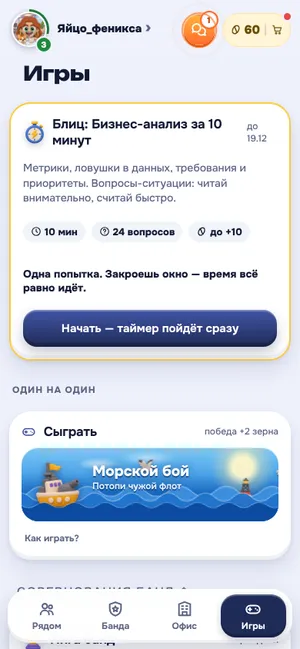
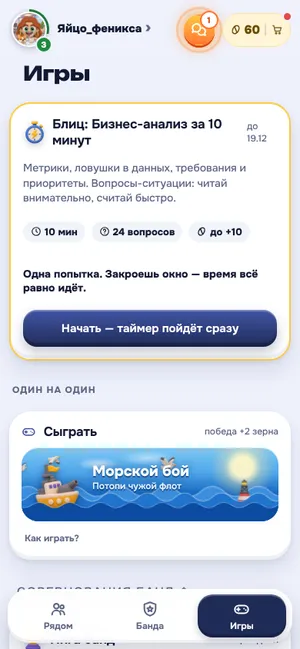
Вкладка «Офис» расформирована: столовая, доска, «Кто знает?» и события — на «Рядом»
Три вкладки: Рядом, Банда, Игры. Столовая показывается после отметки (в обед — сразу под зовами),
доска — когда есть объявления; остальное открывается из блока «Ещё на Этаже».
Старые ссылки и пуши (#feed, #kitchen, #rate, #office) ведут на «Рядом».

Claude-Session: https://claude.ai/code/session_01PvUo6SfsHEJBcoDnbJv4Dh

diff --git a/public/js/app.js b/public/js/app.js
@@ -1827,6 +1827,7 @@ async function loadChats() {
 // Вкладки: «Рядом» — кто где, «Чаты» — банды и личка, «Офис» — столовая и лента, «Игры» — всё игровое
 async function refresh({ all = false } = {}) {
   if (!S.me || !S.me.nick) return;
+  if (S.tab === 'office') S.tab = 'near';
   const t = S.tab;
   const jobs = [loadState(), loadInbox()];
   if (all || t === 'near') jobs.push(loadBoard(), loadPeople(), loadMatch(), loadTodos(), S.fx ? Promise.resolve() : loadFeatures().catch(() => {}));
@@ -1837,14 +1838,13 @@ async function refresh({ all = false } = {}) {
   if (inGang()) ensureGang();
   if (all || inGang() || t === 'games') jobs.push(loadGang(), loadGangExtra());
   if (all && !S.changes) jobs.push(loadChanges());
-  if (all || t === 'office') jobs.push(loadEvents(), loadBoard(), S.experts && S.experts.q ? null : loadExperts());
+  if (all || t === 'near') jobs.push(loadEvents(), S.experts && S.experts.q ? null : loadExperts());
   if (all || t === 'games') jobs.push(loadQuiz(), loadBlitz(), loadLeague('W').catch(() => {}), loadDuels(), loadTour());
   if (t === 'chats' && S.battle) jobs.push(loadBattle());
   if (t === 'chats' && S.dm) jobs.push(loadDm());
   await Promise.all(jobs);
   if (t === 'chats' && S.dm && S.crew) { const f = S.crew.list.find((x) => x.id === S.dm); if (f) f.unread = 0; recountCrewBadge(); }
   if (inGang()) markSeen('chat');
-  if (t === 'office') markSeen('feed');
 }
 function markSeen(kind) {
   const t = S.state ? S.state.now : Date.now();
@@ -1864,6 +1864,8 @@ function trackSeen(k) {
 }
 
 function render() {
+  // Вкладки «Офис» больше нет: её содержимое живёт на «Рядом». Старые ссылки, пуши и сводка ведут туда же
+  if (S.tab === 'office') S.tab = 'near';
   const keepScroll = window.scrollY;
   // Фоновое обновление не должно стирать то, что человек сейчас печатает
   const a = document.activeElement;
@@ -2131,10 +2133,10 @@ function renderApp() {
         <button class="btn small blue" data-act="open" data-v="install">Как?</button>
         <button class="x" style="background:none" data-act="install-hide" aria-label="Скрыть на сутки">×</button>
       </div>` : ''}
-      ${S.tab === 'near' ? renderNear() : S.tab === 'chats' ? renderChats() : S.tab === 'office' ? renderOfficeTab() : renderGames()}
+      ${S.tab === 'near' ? renderNear() : S.tab === 'chats' ? renderChats() : renderGames()}
     </main>
     <nav class="tabs"><div class="in">
-      ${tabBtn('near', 'Рядом', 0)}${tabBtn('chats', 'Банда', chatNews().reduce((a, x) => a + (x.dm ? 0 : x.n), 0))}${tabBtn('office', 'Офис', 0)}${tabBtn('games', 'Игры', (b.duels || 0) + (S.quiz || []).filter((z) => !z.answered).length + (S.battles || []).filter((x) => x.myTurn && x.status !== 'done').length)}
+      ${tabBtn('near', 'Рядом', 0)}${tabBtn('chats', 'Банда', chatNews().reduce((a, x) => a + (x.dm ? 0 : x.n), 0))}${tabBtn('games', 'Игры', (b.duels || 0) + (S.quiz || []).filter((z) => !z.answered).length + (S.battles || []).filter((x) => x.myTurn && x.status !== 'done').length)}
     </div></nav>
   </div>
   ${S.sheet ? renderSheet() : ''}`;
@@ -2309,6 +2311,10 @@ function renderNear() {
   // Новичку — маленькая ссылка под отметкой, а не самый яркий баннер экрана
   const aboutCard = S.me.newbie3 && !store.get('aboutSeen') ? `<button class="linkbtn about-link" data-act="open" data-v="about">Что такое Этаж? За 30 секунд →</button>` : '';
   const noGang = !S.me.gangs.length;
+  // Столовая видна тем, кто отметился в офисе: в обед (11:30–14:30) — сразу под зовами, в остальное время — под людьми
+  const hm = new Date().getHours() * 60 + new Date().getMinutes();
+  const lunchNow = hm >= 690 && hm <= 870;
+  const canteen = S.state.checkin && S.state.canteen ? renderCanteen() : '';
   const pr = S.me.look.prank && S.me.look.prank.until > Date.now() ? S.me.look.prank : null;
   const prankStrip = pr ? `<div class="prank-strip">${avatar(S.me.look, 34)}<span class="grow"><b>${esc(pr.from)} тебя ${pr.f ? 'разыграла' : 'разыграл'}</b><span class="small">${{ coffee: 'Кофе на одежде', sticker: 'Стикер на лбу', phones: 'Наушники с рок-музыкой' }[pr.v] || 'Подлянка'} — до ${new Date(pr.until).toTimeString().slice(0, 5)}</span></span><button class="btn small" data-act="prank-off">Снять</button></div>` : '';
   // Порядок: сначала свои люди. Без банды всё остальное пусто, поэтому первым идёт «Позови своих»;
@@ -2323,13 +2329,28 @@ function renderNear() {
     ${!noGang && S.people && !S.people.length ? findBar() : ''}
     ${renderQuickCalls()}
     ${renderLunchCard()}
+    ${lunchNow ? canteen : ''}
     ${renderWeekNote()}
     ${noGang ? '' : renderPeople()}
+    ${lunchNow ? '' : canteen}
+    ${boardLive() ? renderBoardCard() : ''}
     ${noGang ? '' : renderTodos()}
     ${renderBirthdays()}
     ${renderAdvent(true)}
     ${renderNearMore()}
+    ${renderFloorMore()}
     ${renderTopStrip()}`;
+}
+// То, что раньше жило на вкладке «Офис» и нужно не каждый день: открывается по нажатию
+const boardLive = () => !!(S.board && S.board.items.some((x) => x.kind !== 'lunch' && (!x.expiresAt || x.expiresAt > Date.now())));
+function renderFloorMore() {
+  const fb = (S.state && S.state.badges && S.state.badges.feed) || 0;
+  const row = (v, icon, title, sub, n) => `<button class="floor-row" data-act="open" data-v="${v}"><span class="st-ico">${ico(icon, 18)}</span><span class="grow"><b>${title}</b><span class="small">${sub}</span></span>${n ? `<span class="badge">${n > 9 ? '9+' : n}</span>` : ''}<span class="chev" aria-hidden="true">›</span></button>`;
+  return `<section class="card floor-more"><div class="eyebrow">Ещё на Этаже</div>
+    ${boardLive() ? '' : row('board', 'megaphone', 'Доска объявлений', 'Пока пусто: «отдам билеты», «на кухне яблоки»')}
+    ${row('experts', 'help', 'Кто знает?', 'Найти, кто за что отвечает')}
+    ${row('events', 'spark', 'События и сигналы офиса', 'Что случилось с тобой и что сломалось на этаже', fb)}
+  </section>`;
 }
 // Человек без банды: одно дело на экране — позвать своих или найти банду
 function renderNoGang() {
@@ -4710,6 +4731,9 @@ function renderSheet() {
     case 'gang-settings': return sheetWrap('Настройки банды', renderGangSettings());
     case 'crew': return sheetWrap('Подельники', renderCrew());
     case 'stats': return sheetWrap('Этаж сегодня', renderStats());
+    case 'board': return sheetWrap('Доска', renderBoardCard());
+    case 'experts': return sheetWrap('Кто знает?', renderExperts());
+    case 'events': return sheetWrap('События', renderFeed());
     case 'about': store.set('aboutSeen', true); return sheetWrap('Об Этаже', aboutHtml());
     case 'style': return sheetWrap('Мой стиль', renderStyle());
     case 'battery': return sheetWrap('Батарейка недели', renderBattery());
@@ -5050,10 +5074,9 @@ const COACH = [
   null,
   { cls: 'left', title: 'Это твой профиль', text: 'Нажми на аватар или ник: внешность, имя, план недели, ачивки. Зелёное кольцо — насколько профиль заполнен.' },
   { cls: 'right', title: 'Это твои зёрна', text: 'Их дают за отметки, ответы и квизы. Нажми — откроется Лавка со статусами и рамками.' },
-  { tab: 'near', i: 0, title: 'Рядом', text: 'Главный экран. Отметься, где работаешь сегодня, — и увидишь всех своих людей: кто в офисе, кто дома, кто в отпуске. Позвать на кофе — одна кнопка.' },
+  { tab: 'near', i: 0, title: 'Рядом', text: 'Главный экран. Отметься, где работаешь сегодня, — и увидишь всех своих людей: кто в офисе, кто дома, кто в отпуске. Позвать на кофе — одна кнопка. Столовая, доска и сигналы офиса — тут же, ниже.' },
   { tab: 'chats', i: 1, title: 'Банда', text: 'Твои люди: общий чат, зовы на кофе и обед, опросы и Лига. Личка и морской бой — под значком диалога наверху.' },
-  { tab: 'office', i: 2, title: 'Офис', text: 'Загрузка столовой и оценка обеда, Доска с кухней и объявлениями, сигналы с этажа и лента событий.' },
-  { tab: 'games', i: 3, title: 'Игры', text: 'Задания дня, квиз недели, морской бой и случайный кофе. За всё дают зёрна — их тратят в Лавке.' }
+  { tab: 'games', i: 2, title: 'Игры', text: 'Задания дня, квиз недели, морской бой и случайный кофе. За всё дают зёрна — их тратят в Лавке.' }
 ];
 function renderCoach() {
   if (!S.coach || S.sheet) return '';
@@ -5061,7 +5084,7 @@ function renderCoach() {
   const total = COACH.length - S.coachStart, n = S.coach - S.coachStart + 1;
   const last = S.coach === COACH.length - 1;
   const pos = tip.tab ? 'bottom' : tip.cls;
-  const style = tip.tab ? ` style="--ax:${12.5 + tip.i * 25}%"` : '';
+  const style = tip.tab ? ` style="--ax:${16.67 + tip.i * 33.33}%"` : '';
   return `<div class="coach-bg" data-act="coach-next"></div>
     <div class="coach-tip ${pos}"${style} role="dialog" aria-label="${esc(tip.title)}"><b>${esc(tip.title)}</b><p>${esc(tip.text)}</p>
       <div class="row" style="justify-content:space-between"><span class="small">${n} из ${total}</span>
@@ -5860,7 +5883,7 @@ function renderProfile() {
     <label class="field">Чем занимаюсь<input id="p-role" maxlength="80" value="${esc(p.role || '')}" placeholder="Аналитика тарифов B2B, отчётность для ДФК"></label>
     <label class="field">Спроси меня про… <span class="small" style="font-weight:600">— до пяти тем через запятую</span><input id="p-ask" maxlength="140" value="${esc((p.askMe || []).join(', '))}" placeholder="Jira, тарифы B2B, пропуска и парковка"></label>
     <button class="btn ghost small" data-act="work-save" style="justify-self:start">Сохранить</button>
-    <span class="small" style="font-weight:600">По этим темам коллеги найдут тебя в «Кто знает?» на вкладке «Офис», а вопросы с доски по твоей теме придут в сводку «Этажа».</span>
+    <span class="small" style="font-weight:600">По этим темам коллеги найдут тебя в «Кто знает?» на «Рядом», а вопросы с доски по твоей теме придут в сводку «Этажа».</span>
     <div class="field">Статус<div class="chips">${Object.entries(meG(S.cat.moods, S.cat.moodsF || S.cat.moods)).map(([k, l]) => `<button class="chip ${p.mood === k ? 'on' : ''}" data-act="prof" data-k="mood" data-v="${k}">${esc(l)}</button>`).join('')}</div></div>
     <label class="field">Мой офис — на главной кнопке отметки<select id="home-office">
       <option value="">Не выбран</option>${S.cat.offices.slice().sort((x, y) => x.name.localeCompare(y.name, 'ru')).map((o) => `<option value="${esc(o.id)}" ${p.home === o.id ? 'selected' : ''}>${esc(o.name)}</option>`).join('')}</select></label>
@@ -6740,6 +6763,9 @@ const actions = {
     if (S.sheet === 'shop') { store.set('shopSeen', [...new Set([...store.get('shopSeen', []), ...((S.me && S.me.affordable) || [])])]); await run(async () => { S.shop = await get('/api/shop'); if (S.activeGang && !S.gang) await loadGang(); }); }
     if (S.sheet === 'profile' || S.sheet === 'lunch') await run(loadFeatures);
     if (S.sheet === 'feedback') await run(loadFeedback);
+    if (S.sheet === 'events') { await run(loadEvents); markSeen('feed'); render(); }
+    if (S.sheet === 'experts') await run(loadExperts);
+    if (S.sheet === 'board') await run(loadBoard);
     if (S.sheet === 'style') await run(async () => { S.style = await get('/api/me/style'); });
     if (S.sheet === 'battery') { S.bt = { step: 0, answers: [] }; await run(async () => { S.battery = await get('/api/battery'); }); }
     if (S.sheet === 'crew-new' && !S.crew) await run(loadCrew);
@@ -7679,15 +7705,14 @@ document.addEventListener('visibilitychange', async () => {
 // Ссылки из пушей: #gang/ID, #crew/ID, #battle/ID, #feed, #feedback
 function applyHash(hash) {
   if (hash.startsWith('#gang/')) { S.tab = 'chats'; S.chatGang = true; S.dmList = false; S.dm = null; S.activeGang = Number(hash.slice(6)) || S.activeGang; }
-  if (hash === '#feed') { S.dmList = false; S.tab = 'office'; S.chatGang = false; S.dm = null; setTimeout(() => { const c = document.querySelector('.myfeed'); if (c) c.scrollIntoView({ block: 'center', behavior: 'smooth' }); }, 900); }
-  if (hash === '#kitchen') { S.dmList = false; S.tab = 'office'; S.chatGang = false; S.dm = null; S.boardCat = 'kitchen'; }
-  if (hash === '#lunch' || hash === '#office') { S.dmList = false; S.tab = hash === '#lunch' ? 'near' : 'office'; S.chatGang = false; S.dm = null; if (hash === '#lunch') setTimeout(() => { const c = document.querySelector('.lunch-card'); if (c) c.scrollIntoView({ block: 'center', behavior: 'smooth' }); }, 800); }
+  if (hash === '#feed') { S.dmList = false; S.tab = 'near'; S.chatGang = false; S.dm = null; S.sheet = 'events'; loadEvents().then(() => { markSeen('feed'); render(); }).catch(() => {}); }
+  if (hash === '#kitchen') { S.dmList = false; S.tab = 'near'; S.chatGang = false; S.dm = null; S.boardCat = 'kitchen'; }
+  if (hash === '#lunch' || hash === '#office') { S.dmList = false; S.tab = 'near'; S.chatGang = false; S.dm = null; if (hash === '#lunch') setTimeout(() => { const c = document.querySelector('.lunch-card'); if (c) c.scrollIntoView({ block: 'center', behavior: 'smooth' }); }, 800); }
   if (hash === '#near') { S.dmList = false; S.tab = 'near'; S.chatGang = false; S.dm = null; }
-  if (hash === '#rate') { S.tab = 'office'; S.chatGang = false; S.dm = null; setTimeout(() => { const c = document.querySelector('.food'); if (c) c.scrollIntoView({ block: 'center', behavior: 'smooth' }); }, 800); }
+  if (hash === '#rate') { S.tab = 'near'; S.chatGang = false; S.dm = null; setTimeout(() => { const c = document.querySelector('.food'); if (c) c.scrollIntoView({ block: 'center', behavior: 'smooth' }); }, 800); }
   if (hash === '#todos') { S.tab = 'near'; S.chatGang = false; S.dm = null; setTimeout(() => { const c = document.querySelector('.todos'); if (c) c.scrollIntoView({ block: 'center', behavior: 'smooth' }); }, 600); }
   if (hash === '#battery') { S.sheet = 'battery'; S.bt = { step: 0, answers: [] }; get('/api/battery').then((b) => { S.battery = b; render(); }).catch(() => {}); }
   if (hash.startsWith('#wave/')) { S.tab = 'chats'; S.chatGang = true; S.dmList = false; S.dm = null; S.activeGang = Number(hash.slice(6)) || S.activeGang; S.waveScroll = true; }
-  if (hash === '#feed') S.tab = 'office';
   if (hash === '#crew' || hash === '#chats') { S.tab = 'chats'; S.dmList = hash === '#crew'; }
   if (hash.startsWith('#crew/')) { S.tab = 'chats'; S.dm = Number(hash.slice(6)) || null; S.dmSecret = false; }
   if (hash.startsWith('#secret/')) { S.tab = 'chats'; S.chatGang = false; S.battle = null; S.dm = Number(hash.slice(8)) || null; S.dmSecret = true; Promise.all([loadDm(), loadSecret()]).then(render).catch(() => {}); }
@@ -7705,6 +7730,7 @@ window.addEventListener('hashchange', async () => {
   if (hash === '#feedback') { S.sheet = 'feedback'; render(); await run(loadFeedback); return; }
   if (hash === '#league') { S.sheet = 'league'; render(); await run(() => loadLeague('W')); return; }
   if (hash === '#inbox') { render(); await run(loadInbox); markInboxSeen(); return; }
+  if (hash === '#feed') { render(); return; }
   S.sheet = null;
   try { await refresh(); } catch {}
   render();

diff --git a/public/js/guide.js b/public/js/guide.js
@@ -28,7 +28,7 @@ export const GUIDE = [
       ['Неделя банды', 'В первый рабочий день недели на «Рядом» — карточка: кто из банды в отпуске, кто болеет и у кого день рождения на этой неделе. Около 9:30 приходит такой же пуш. Отпуск и «болею» — только у тех, кто показывает, где работает. Пуш выключается в профиле, в уведомлениях.'],
       ['Свои люди', 'Список банды: кто где сегодня. Нажми на человека — его карточка: имя, чем занимается, о чём его можно спросить, кнопки «Написать» и «Респект», число полученных респектов.'],
       ['Респект', 'Кнопка в карточке любого коллеги, в личке и в чате банды. Получателю пуш и +2 зерна (до 6 в день). Кто и за что — видит только он, в «Моих событиях»; остальным видно одно число на карточке. У тебя три респекта в день и один одному человеку; ответный в тот же день зёрен не даёт. За респект от 5, 15 и 40 разных людей — ачивки «Свой человек», «Уважаемый» и «Авторитет Этажа».'],
-      ['Мои события', 'Внизу вкладки «Офис»: только то, что случилось с тобой — респект, ответ на твой зов, «я с вами» на обед, подарок, новичок в банде, итог Лиги, новая ачивка. Чужих ачивок и покупок там нет.'],
+      ['Мои события', 'На «Рядом», в блоке «Ещё на Этаже» → «События и сигналы офиса»: только то, что случилось с тобой — респект, ответ на твой зов, «я с вами» на обед, подарок, новичок в банде, итог Лиги, новая ачивка. Чужих ачивок и покупок там нет.'],
       ['Дни рождения', 'Кого поздравить на этой неделе. Можно подарить открытку или выразить респект.'],
       ['Адвент-календарь', 'В декабре — окошко в день, в каждом мелочь и +2 зерна.']
     ]
@@ -47,8 +47,8 @@ export const GUIDE = [
     ]
   },
   {
-    id: 'office', icon: 'office', title: 'Офис', go: { tab: 'office' },
-    lead: 'Всё про сам офис. Часть открывается, только когда ты отметился|отметилась в офисе.',
+    id: 'office', icon: 'office', title: 'Офис и доска', go: { tab: 'near' },
+    lead: 'Отдельной вкладки «Офис» больше нет — всё это на «Рядом». Столовая появляется после отметки в офисе; доска, «Кто знает?» и события — в блоке «Ещё на Этаже» внизу.',
     items: [
       ['Столовая', 'Сколько сейчас народу и прогноз на ближайший час. После обеда — оценка 👍/👎 с метками: коллеги увидят сводку.'],
       ['Сигналы офиса', '«Не работает кофемашина», «холодно на 5-м». Подтверди чужой сигнал, если видишь то же самое: +2 зерна.'],

diff --git a/public/sw.js b/public/sw.js
@@ -1,5 +1,5 @@
 // Service worker: кэш оболочки приложения и показ пушей.
-const CACHE = 'etazh-v169';
+const CACHE = 'etazh-v170';
 const SHELL = ['/', '/index.html', '/css/app.css', '/js/app.js', '/js/building.js', '/js/crest.js', '/js/guide.js', '/js/ships.js', '/js/seafx.js', '/js/duelart.js', '/js/practice.js', '/sounds/battle.mp3', '/sounds/lose.mp3', '/sounds/win.mp3', '/sounds/rally.mp3', '/sounds/horn.mp3', '/sounds/miss1.mp3', '/sounds/miss2.mp3', '/sounds/hit1.mp3', '/sounds/hit2.mp3', '/sounds/sunk1.mp3', '/sounds/resign.mp3', '/sounds/emo_lol.mp3', '/sounds/emo_angry.mp3', '/sounds/emo_bored.mp3', '/sounds/emo_smart.mp3', '/sounds/emo_oops.mp3', '/sounds/emo_clap.mp3', '/sounds/emo_mercy.mp3', '/sounds/emo_easy.mp3', '/sounds/climb_loop.mp3', '/sounds/emo_sink.mp3', '/sounds/emo_miss.mp3', '/sounds/emo_gull.mp3', '/sounds/emo_boom.mp3', '/sounds/emo_hmm.mp3', '/sounds/emo_bye.mp3', '/sounds/emo_rage.mp3', '/sounds/emo_wait.mp3', '/js/theme.js', '/art/rps.webp', '/art/dice.webp', '/art/ttt.webp', '/art/ship.webp', '/art/bolt.webp', '/art/trophy.webp', '/art/coffee.webp', '/art/lunch.webp', '/art/pin.webp', '/art/ships/s1h.webp', '/art/ships/s1hw.webp', '/art/ships/s1v.webp', '/art/ships/s1vw.webp', '/art/ships/s2h.webp', '/art/ships/s2hw.webp', '/art/ships/s2v.webp', '/art/ships/s2vw.webp', '/art/ships/s3h.webp', '/art/ships/s3hw.webp', '/art/ships/s3v.webp', '/art/ships/s3vw.webp', '/art/ships/s4h.webp', '/art/ships/s4hw.webp', '/art/ships/s4v.webp', '/art/ships/s4vw.webp', '/art/shield.webp', '/art/crest/em.webp', '/art/crest/tops.webp', '/art/gift.webp', '/art/popper.webp', '/art/stopwatch.webp', '/art/podium.webp', '/art/win.webp', '/art/lose.webp', '/art/draw.webp', '/art/clink.webp', '/art/tasks.webp', '/art/cup.webp', '/art/medal_common.webp', '/art/medal_rare.webp', '/art/medal_legendary.webp', '/art/medal_locked.webp', '/art/medal_secret.webp', '/art/buoy.webp', '/art/sea_buoy.webp', '/art/gull.webp', '/art/climb/boy.jpg', '/art/climb/girl.jpg', '/art/emo.webp', '/art/hourglass.webp', '/art/beans.webp', '/art/dove.webp', '/art/flag.webp', '/art/friends.webp', '/art/megaphone.webp', '/art/quiz.webp', '/art/shake.webp', '/art/bg_office.webp', '/art/bg_meeting.webp', '/art/bg_home.webp', '/art/bg_street.webp', '/art/bg_cafe.webp', '/fonts/onest.woff', '/fonts/unbounded.woff', '/manifest.webmanifest', '/icons/icon-192.png'];
 
 self.addEventListener('install', (e) => {

diff --git a/public/css/app.css b/public/css/app.css
@@ -270,7 +270,7 @@ body { font-weight: 500; }
 .adm-scroll { overflow-x: auto; }
 
 /* ---- Подельники: личные контакты ---- */
-.tabs .in { grid-template-columns: repeat(4, 1fr); gap: 4px; }
+.tabs .in { grid-template-columns: repeat(3, 1fr); gap: 4px; }
 .tab { font-size: 12px; }
 .crew-row { width: 100%; background: none; text-align: left; color: var(--ink); padding: 0; font: inherit; cursor: pointer; }
 .crew-nick { display: block; font-weight: 800; font-size: 15px; }
@@ -2573,3 +2573,14 @@ main > .top-strip { margin: 6px 0 0; width: 100%; opacity: .8; }
 .land-qr .land-host { font-weight: 800; color: var(--ink); }
 .land-note { margin: 0; text-align: center; }
 @media (max-width: 860px) { .onb.land { grid-template-columns: minmax(0, 1fr); gap: 24px; padding-top: 28px; } .land-r { position: static; order: -1; } }
+
+/* «Ещё на Этаже»: то, что раньше жило на вкладке «Офис» */
+.floor-more { display: flex; flex-direction: column; gap: 2px; }
+.floor-row { display: flex; align-items: center; gap: 10px; width: 100%; padding: 10px 2px; background: none; border: 0; border-top: 1px solid var(--line); color: var(--ink); font: inherit; text-align: left; cursor: pointer; }
+.floor-more .eyebrow + .floor-row { border-top: 0; }
+.floor-row b { display: block; font-size: 15px; }
+.floor-row .small { display: block; }
+.floor-row .chev { font-size: 22px; color: var(--muted); }
+.sheet > .card, .sheet > section.card { box-shadow: none; border: 0; padding: 0; background: none; }
+/* В окне заголовок уже есть — внутренний повтор не нужен */
+.sheet > .experts .chats-head h3, .sheet > .bboard .chats-head h3 { display: none; }
